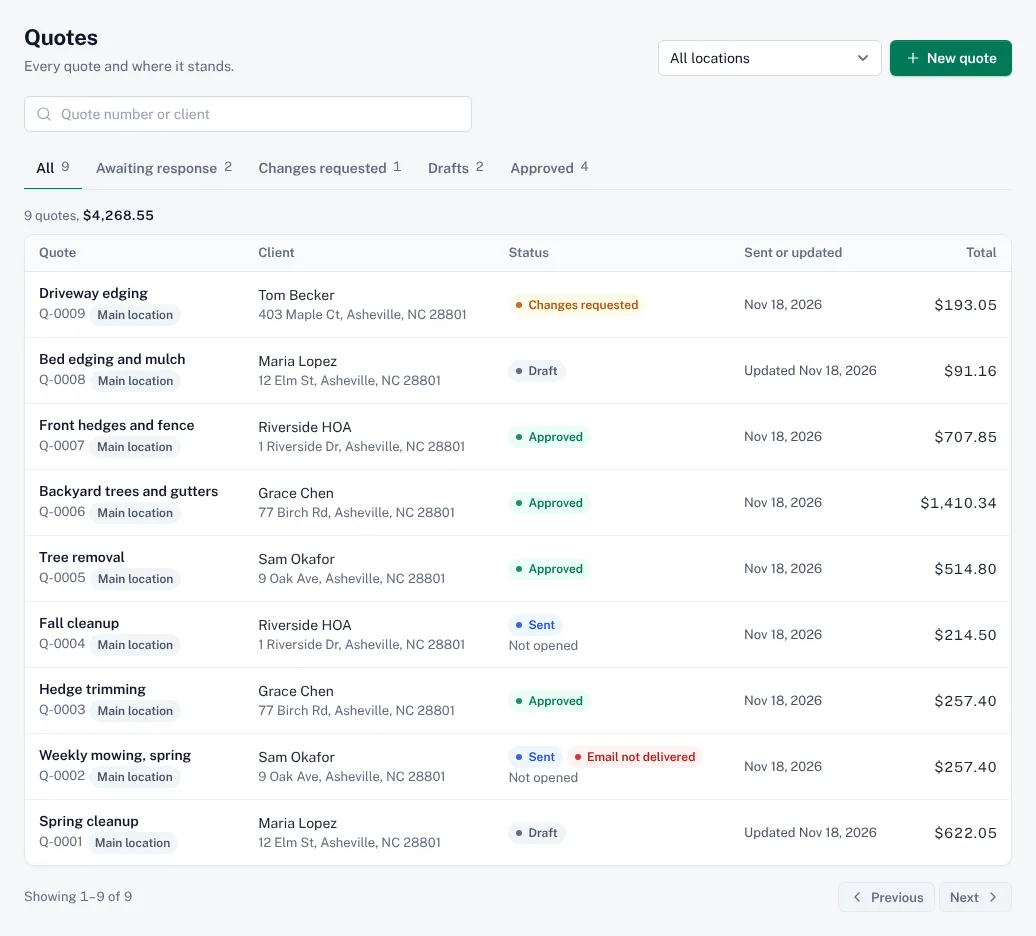
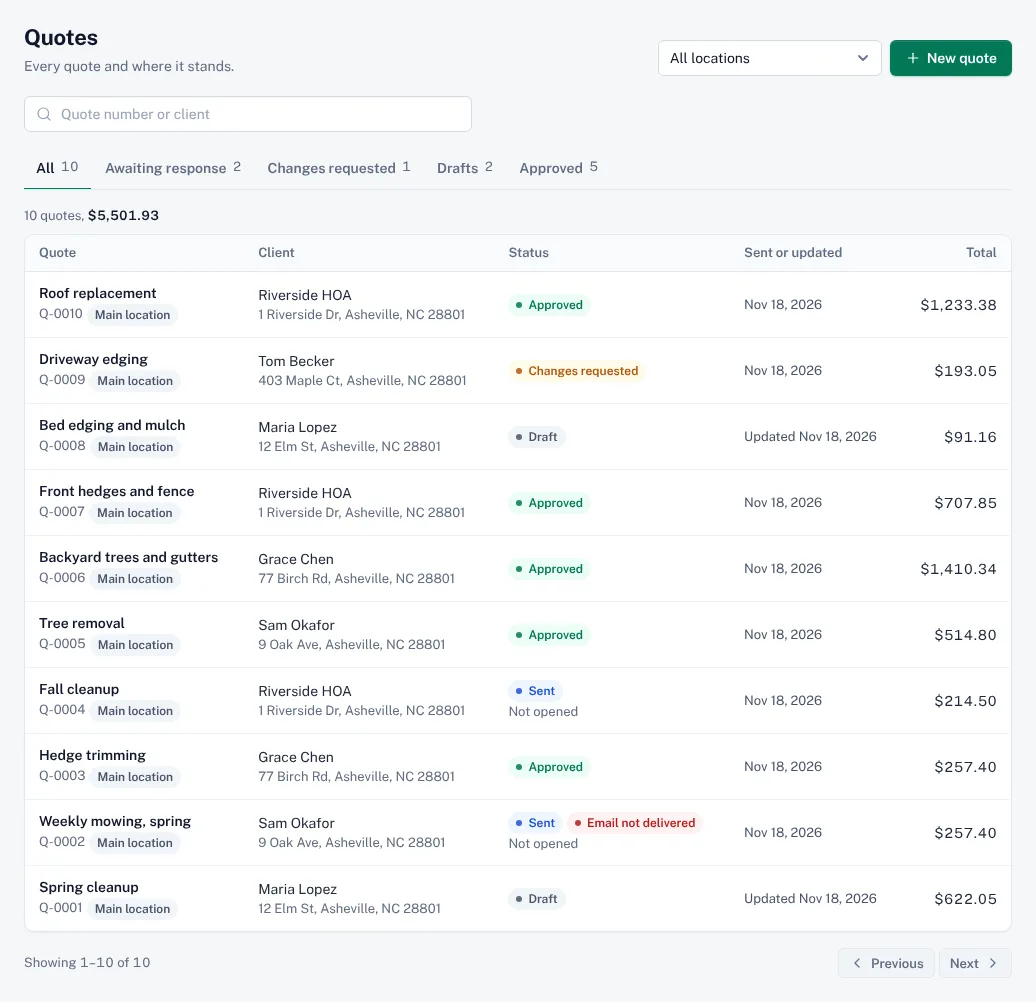
PAY-08 part 3: progress on the pages, credits and shares on invoices, seeds and the spec (#427)
* PAY-08 part 3: progress buttons, credits and shares on invoices, progress on the quote and job pages, seeds and the spec

Claude-Session: https://claude.ai/code/session_01STSMyyw2JA3DZHFPa2E6RQ

* PAY-08 part 3: review fixes: "Credit from" with tax for clients, staff figures with tax, Void waits, export columns, spec

Owner, 2026-11-23: client documents (page, PDF, email) show "Credit from
INV-0004" with its tax; staff progress figures include tax; "Create progress
invoice" approved. Void is hidden on progress a later invoice credits, saying
why. Export adds kind, share and credits. Spec records the answers and fit notes.

Claude-Session: https://claude.ai/code/session_01STSMyyw2JA3DZHFPa2E6RQ

* PAY-08 part 3: credits shown after the discount, before tax; the owner's net-credit rule in the spec

Claude-Session: https://claude.ai/code/session_01STSMyyw2JA3DZHFPa2E6RQ

* PAY-08 part 3: client Credit from rows with mixed tax tested; the owner's cap answer in the spec

Claude-Session: https://claude.ai/code/session_01STSMyyw2JA3DZHFPa2E6RQ

* PAY-08 part 3: the spec notes progress keeps its work's tax rates

Claude-Session: https://claude.ai/code/session_01STSMyyw2JA3DZHFPa2E6RQ

* PAY-08 part 3: the demo's roof seed is made last and counted before this billing period, so the help screenshots stay current

Claude-Session: https://claude.ai/code/session_01STSMyyw2JA3DZHFPa2E6RQ
[…]

diff --git a/test/integration/admin/progress_billing_test.rb b/test/integration/admin/progress_billing_test.rb
@@ -70,4 +70,98 @@ class Admin::ProgressBillingTest < ActionDispatch::IntegrationTest
     their_quote = as_business(businesses(:two)) { Quote.create!(client: theirs.client, title: "Theirs") }
     assert_not_found_across_businesses { post admin_quote_invoices_path(their_quote, progress: 1) }
   end
+
+  test "the pages: progress buttons before the work is done; credits and the share on the invoice; progress, with tax" do
+    as_business(@business) { @quote.update_columns(discount_kind: "amount", discount_amount_cents: 100_00, tax_rates: [ { "name" => "State", "percent" => "10" } ]) }
+    get admin_quote_path(@quote)
+    assert_select "form[action=?] button#quote-progress-invoice", admin_quote_invoices_path(@quote, progress: 1), /Create progress invoice/
+    job = make
+    get admin_job_path(job)
+    assert_select "form[action=?] button#job-progress-invoice", admin_job_invoices_path(job, progress: 1)
+
+    early = as_business(@business) do
+      WorkBilling.bill_progress!(job, by: users(:one)).tap do |invoice|
+        assert_equal [ 900_00, 990_00 ], [ invoice.subtotal_cents, invoice.total_cents ], "at most what's left after the discount's share (owner, 2026-11-23)"
+        invoice.mark_sent!(by: users(:one), channel: "link")
+      end
+    end
+    get admin_invoice_path(early)
+    assert_select "#invoice-progress", /Progress invoice/
+    as_business(@business) { job.reload.complete!(by: users(:one)) }
+    get admin_job_path(job)
+    assert_select "#job-progress-invoice", count: 0, text: nil
+    assert_select "#job-progress", /Progress billed\s*\$990\.00/
+
+    post admin_job_invoices_path(job)
+    final = as_business(@business) { Invoice.last }
+    get edit_admin_invoice_path(final)
+    assert_select "#quote_totals .quote-totals-credit", /Billed earlier on #{early.number}\s*−\$900\.00/
+    assert_select "#quote_totals", /Share of the quote's discount\s*−\$100\.00/
+    assert_equal 0, final.total_cents
+    as_business(@business) { final.reload.mark_sent!(by: users(:one), channel: "link") }
+
+    get admin_quote_path(@quote)
+    assert_select "#quote-progress", /Credited on final invoices\s*\$990\.00/
+    assert_select "#quote-progress", text: /Over-billed/, count: 0
+    assert_select "#quote-progress-invoice", count: 0
+    get admin_invoice_path(early)
+    assert_select "#invoice-credited", /credited on #{final.number}/
+    assert_select "#invoice-void", count: 0
+
+    get client_link_path(as_business(@business) { final.client_link! }.token)
+    assert_select ".quote-doc-totals", /Credit from #{early.number}\s*−\$990\.00/, "with the tax the client paid (owner, 2026-11-23)"
+    assert_select ".quote-doc-totals", text: /Billed earlier/, count: 0
+    get client_link_path(as_business(@business) { early.client_link! }.token)
+    assert_select ".quote-doc-kicker", "Progress invoice #{early.number}"
+  end
+
+  test "the client's Credit from rows are what each progress invoice charged, with taxed and untaxed work mixed" do
+    quote = as_business(@business) do
+      @quote.update_columns(tax_rates: [ { "name" => "State", "percent" => "10" } ])
+      @quote.line_items.build(key: "g", name: "Gutters", quantity: 1, taxable: false, position: 1).tap { _1.unit_price = "500" }.save!
+      @quote.reload
+    end
+    job = as_business(@business) { Job.from_quote!(quote, picks: quote.line_items.to_h { [ _1.id, "1" ] }) }
+    numbers = %w[Roof Gutters].map do |name|
+      as_business(@business) do
+        invoice = WorkBilling.bill_progress!(job.reload, by: users(:one))
+        invoice.line_items.each { _1.name == name ? _1.assign_attributes(quantity: 1, unit_price: "500") : _1.mark_for_destruction }
+        invoice.save!
+        invoice.mark_sent!(by: users(:one), channel: "link")
+        invoice.number
+      end
+    end
+    as_business(@business) { job.reload.complete!(by: users(:one)) }
+    post admin_job_invoices_path(job)
+    final = as_business(@business) { Invoice.last.tap { _1.mark_sent!(by: users(:one), channel: "link") } }
+    get client_link_path(as_business(@business) { final.client_link! }.token)
+    assert_select ".quote-doc-totals", /Credit from #{numbers.first}\s*−\$550\.00/, "the roof's $500 with its 10%"
+    assert_select ".quote-doc-totals", /Credit from #{numbers.last}\s*−\$500\.00/, "the gutters, untaxed"
+  end
+
+  test "the quote and job pages don't query once per progress invoice" do
+    job = make
+    count = lambda do |path|
+      get path # warms up
+      queries = 0
+      counter = ->(*, payload) { queries += 1 unless payload[:name].in?(%w[SCHEMA TRANSACTION]) }
+      ActiveSupport::Notifications.subscribed(counter, "sql.active_record") { get path }
+      assert_response :success
+      queries
+    end
+    bill = lambda do
+      as_business(@business) do
+        invoice = WorkBilling.bill_progress!(job.reload, by: users(:one))
+        invoice.line_items.sole.update!(unit_price: "10")
+        invoice.reload.save!
+        invoice.mark_sent!(by: users(:one), channel: "link")
+      end
+    end
+    2.times { bill.() }
+    few = [ admin_quote_path(@quote), admin_job_path(job) ].map { count.(_1) }
+    10.times { bill.() }
+    many = [ admin_quote_path(@quote), admin_job_path(job) ].map { count.(_1) }
+    puts "queries #{few} -> #{many}" if ENV["SHOW_QUERIES"]
+    few.zip(many).each { |before, after| assert_operator after - before, :<=, 2, "#{before} queries with 2 progress invoices, #{after} with 12" }
+  end
 end

diff --git a/app/models/data_export.rb b/app/models/data_export.rb
@@ -214,7 +214,7 @@ class DataExport < ApplicationRecord
       column("Cancelled", &:cancelled_at)
       column("Cancel reason", &:cancel_reason)
     end,
-    Table.new("invoices", "Invoices", "One row per invoice, with totals, taxes and what's been paid.", scope: -> { Invoice.includes(:client, :property, :job, :quote, :jobs, :line_items, :location) }) do
+    Table.new("invoices", "Invoices", "One row per invoice, with totals, taxes and what's been paid.", scope: -> { Invoice.includes(:client, :property, :job, :quote, :jobs, :line_items, :location, :credits) }) do
       column("Invoice number", &:number)
       column("Client ID") { _1.client.uid }
       column("Client") { _1.client.display_name }
@@ -243,6 +243,12 @@ class DataExport < ApplicationRecord
       # PAY-06: the quote it bills and every job (a quote's invoice can bill several).
       column("From quote", flag: :split_jobs) { _1.quote&.number }
       column("Jobs", flag: :split_jobs) { _1.jobs.map(&:number).join(", ") }
+      # PAY-08: progress or work, its share of the quote's fixed discount, and what it credits
+      # before tax for progress billed earlier (and on which invoices).
+      column("Kind", flag: :split_jobs, &:kind)
+      column("Quote discount share", number: true, flag: :split_jobs) { money.(_1.quote_discount_share_cents, _1.currency) }
+      column("Credits before tax", number: true, flag: :split_jobs) { money.(_1.credits.sum(&:amount_cents), _1.currency) }
+      column("Credits from", flag: :split_jobs) { _1.credits.map { |credit| credit.source_invoice.number }.uniq.join(", ") }
     end,
     Table.new("invoice_lines", "Invoice line items", "Each line on each invoice.", scope: -> { InvoiceLineItem.includes(:invoice, job_line_item: :job, quote_line_item: :quote) },
               cursor: %i[invoice_id position id]) do
@@ -254,6 +260,7 @@ class DataExport < ApplicationRecord
       column("Quote number", flag: :split_jobs) { _1.quote_line_item&.quote&.number }
       column("Quote line position", number: true, flag: :split_jobs) { _1.quote_line_item&.position }
       column("Final bill", flag: :split_jobs, &:final)
+      column("Discount share", number: true, flag: :split_jobs) { money.(_1.discount_share_cents, _1.invoice.currency) } # PAY-08
     end,
     Table.new("payments", "Payments", "Each payment recorded against an invoice, by date received.", scope: -> { Payment.includes(:invoice, :recorded_by) }, cursor: %i[received_on id]) do
       column("Payment ID", &:uid)

diff --git a/db/seeds/development.rb b/db/seeds/development.rb
@@ -700,3 +700,37 @@ Tenancy.with_business(business) do
                            message: "Could you add the path to the back gate as well?")
   end
 end
+
+# PAY-08: "Roof replacement" with a $100 fixed discount: half the roof billed up front as progress
+# (sent), then the job completed and its final invoice a draft that credits the $500 before tax
+# and takes its share of the discount. The gutters are still to do. Made last, and its send
+# counted before this billing period, so the rest of the demo (numbers, the quote allowance) and
+# the help screenshots taken from it stay as they were.
+Tenancy.with_business(business) do
+  owner = User.find_by!(email: "owner@example.com")
+  client = Client.order(:id).fourth || Client.order(:id).first
+  if client && !Quote.exists?(title: "Roof replacement")
+    split = Feature.overrides.key?("split_jobs")
+    Feature.overrides["split_jobs"] = true unless split
+    quote = Quote.start(client:, created_by: owner)
+    quote.title = "Roof replacement"
+    quote.set_discount("amount", "100")
+    quote.sync_line_items([ { "key" => "seed-0", "name" => "Roof replacement", "quantity" => "1", "unit_price" => "1000", "taxable" => "1" },
+                            { "key" => "seed-1", "name" => "Gutter guards", "quantity" => "1", "unit_price" => "250", "taxable" => "1" } ])
+    quote.save!
+    quote.mark_sent!(by: owner, channel: "link")
+    UsageEvent.where(subject: quote).update_all(occurred_at: 3.months.ago)
+    auto = business.auto_create_jobs
+    business.update_columns(auto_create_jobs: false)
+    quote.record_response!(:approve, by: owner, signer_name: client.display_name, message: "Agreed by phone")
+    business.update_columns(auto_create_jobs: auto)
+    job = Job.from_quote!(quote.reload, by: owner, picks: { quote.line_items.first.id => "1" })
+    early = WorkBilling.bill_progress!(job, by: owner)
+    early.line_items.sole.update!(unit_price: "500")
+    early.reload.save!
+    early.mark_sent!(by: owner, channel: "link")
+    job.reload.complete!(by: owner)
+    Invoice.from_job!(job.reload, by: owner)
+    Feature.overrides.delete("split_jobs") unless split
+  end
+end

diff --git a/app/helpers/client_events_helper.rb b/app/helpers/client_events_helper.rb
@@ -27,7 +27,7 @@ module ClientEventsHelper
     when "visit_reopened" then [ "rotate-ccw", "Visit reopened#{" for #{subject.job.number}" if subject}", subject && admin_job_path(subject.job) ]
     when "visit_cancelled" then [ "x-circle", "Visit on #{data["when"]} cancelled#{" (#{subject.job.number})" if subject}", subject && admin_job_path(subject.job) ]
     when "invoice_sent"
-      [ "send", "Invoice #{subject&.number} sent #{CHANNELS[data["channel"]]} #{revision_note(data)}".squish, subject && staff_invoice_path(subject) ]
+      [ "send", "#{subject&.kind_label || "Invoice"} #{subject&.number} sent #{CHANNELS[data["channel"]]} #{revision_note(data)}".squish, subject && staff_invoice_path(subject) ]
     when "invoice_paid" then [ "check-circle", "Invoice #{subject&.number} paid in full", subject && staff_invoice_path(subject) ]
     when "invoice_unpaid" then [ "rotate-ccw", "Invoice #{subject&.number} no longer paid in full", subject && staff_invoice_path(subject) ]
     when "payment_recorded"
@@ -41,7 +41,7 @@ module ClientEventsHelper
       related = subject&.related
       about, path = case related
       when Quote then [ "Quote #{related.number}", staff_quote_path(related) ]
-      when Invoice then [ "Invoice #{related.number}", staff_invoice_path(related) ]
+      when Invoice then [ "#{related.kind_label} #{related.number}", staff_invoice_path(related) ]
       else [ ("“#{subject.subject}”" if subject&.subject), nil ]
       end
       [ "alert-triangle", subject ? "#{about || "An email"} to #{subject.to}: #{subject.problem_reason}" : "An email wasn't delivered", path ]

diff --git a/app/controllers/admin/invoices_controller.rb b/app/controllers/admin/invoices_controller.rb
@@ -58,7 +58,7 @@ class Admin::InvoicesController < Admin::BaseController
     respond_to do |format|
       format.turbo_stream { render :update, status: (saved ? :ok : :unprocessable_content) }
       format.html do
-        next redirect_to(edit_admin_invoice_path(@invoice), notice: "Invoice #{@invoice.number} saved.") if saved
+        next redirect_to(edit_admin_invoice_path(@invoice), notice: "#{@invoice.kind_label} #{@invoice.number} saved.") if saved
 
         render :edit, status: :unprocessable_content
       end
@@ -72,7 +72,7 @@ class Admin::InvoicesController < Admin::BaseController
 
   def revise
     @invoice.revise!(by: current_user)
-    redirect_to edit_admin_invoice_path(@invoice), notice: "Invoice #{@invoice.number} reopened as revision #{@invoice.revision}."
+    redirect_to edit_admin_invoice_path(@invoice), notice: "#{@invoice.kind_label} #{@invoice.number} reopened as revision #{@invoice.revision}."
   rescue ArgumentError => error
     redirect_to admin_invoice_path(@invoice), alert: error.message
   end
@@ -87,7 +87,7 @@ class Admin::InvoicesController < Admin::BaseController
 
   def void
     @invoice.void!(reason: params[:reason], by: current_user)
-    redirect_to admin_invoice_path(@invoice), notice: "Invoice #{@invoice.number} voided."
+    redirect_to admin_invoice_path(@invoice), notice: "#{@invoice.kind_label} #{@invoice.number} voided."
   rescue ArgumentError => error
     redirect_to admin_invoice_path(@invoice), alert: error.message
   end

diff --git a/test/integration/admin/data_exports_test.rb b/test/integration/admin/data_exports_test.rb
@@ -139,10 +139,10 @@ class Admin::DataExportsTest < ActionDispatch::IntegrationTest
       Invoice.from_quote!(quote.reload).tap { assert_equal 2, jobs.size }
     end
     lines = download("invoice_lines").select { _1["Invoice number"] == invoice.number }
-    assert_equal [ "Job number", "Job line position", "Quote number", "Quote line position", "Final bill" ], lines.first.headers.last(5)
+    assert_equal [ "Job number", "Job line position", "Quote number", "Quote line position", "Final bill", "Discount share" ], lines.first.headers.last(6)
     numbers, quote = as_business(@business) { [ invoice.jobs.map(&:number), invoice.quote.number ] }
-    assert_equal numbers.map { [ _1, "0", quote, "0", "yes" ] }, lines.map { _1.fields.last(5) }
+    assert_equal numbers.map { [ _1, "0", quote, "0", "yes", "0.00" ] }, lines.map { _1.fields.last(6) }
     row = download("invoices").find { _1["Invoice number"] == invoice.number }
-    assert_equal [ quote, numbers.join(", ") ], row.fields.last(2)
+    assert_equal [ quote, numbers.join(", "), "work", "0.00", "0.00", "" ], row.fields.last(6) # PAY-08: kind, share, credits
   end
 end

diff --git a/test/models/progress_billing_test.rb b/test/models/progress_billing_test.rb
@@ -617,6 +617,14 @@ class ProgressBillingTest < ActiveSupport::TestCase
     end
     assert_equal sent_with, [ final.reload.quote_discount_share_cents, credits(final), final.total_cents ]
   end
+
+  test "the quote's over-billed figure is what the client was charged, with tax (owner, 2026-11-23)" do
+    approved_quote([ [ "t", "Tree removal", 10, 100 ] ], tax: "10")
+    send!(lower(progress(@quote), "Tree removal" => 800))
+    send!(bill_job(complete(make(t: 10), "Tree removal" => 6)))
+    summary = as_business(@business) { BillingLedger.new(quote: @quote.reload).summary }
+    assert_equal({ billed: 880_00, credited: 660_00, over_billed: 220_00 }, summary)
+  end
 end
 
 # Two drafts that would both credit the same over-billing, sent at once: the quote's lock queues

diff --git a/app/models/concerns/billing_credits.rb b/app/models/concerns/billing_credits.rb
@@ -34,6 +34,9 @@ module BillingCredits
 
   def progress? = kind == "progress"
 
+  # What it's called wherever it's named: "Progress invoice INV-0004", as on the client's page.
+  def kind_label = progress? ? "Progress invoice" : "Invoice"
+
   # Prices the lines with the shares, and the pre-tax credits as negative lines (credits: false is
   # the total before credits, which the $0 rule looks at).
   def totals(credits: true)

diff --git a/app/mailers/invoice_mailer.rb b/app/mailers/invoice_mailer.rb
@@ -17,5 +17,5 @@ class InvoiceMailer < ClientMailer
     client_mail subject:, cc: params[:cc].presence
   end
 
-  def self.default_subject(invoice) = "Invoice #{invoice.number} from #{invoice.business.name}#{": #{invoice.title}" if invoice.title}"
+  def self.default_subject(invoice) = "#{invoice.kind_label} #{invoice.number} from #{invoice.business.name}#{": #{invoice.title}" if invoice.title}"
 end

diff --git a/docs/specs/payments/PAY-08-progress-billing-discount-shares.md b/docs/specs/payments/PAY-08-progress-billing-discount-shares.md
@@ -23,38 +23,41 @@ invoices in proportion to the work each bills, so a part-done quote never carrie
 
 ## Acceptance criteria
 
-- [ ] "Create another invoice" on a job or a quote before the work is done makes a progress
+- [x] "Create another invoice" on a job or a quote before the work is done makes a progress
       invoice (kind progress) of its unbilled lines, which staff can lower. Its lines are
       progress amounts, not final bills (PAY-06). On autosave and on send, under PAY-06's lock, a
-      line's progress can't pass what's left of it.
-- [ ] Progress on a job line is credited on that line's final bill; progress on a quote line, or
+      line's progress can't pass what's left of it. *"Create progress invoice"; never charges a
+      line more than the final would after its discount (owner, 2026-11-23).*
+- [x] Progress on a job line is credited on that line's final bill; progress on a quote line, or
       on the line of a job later cancelled, is credited on its quote line's final bills. Each
       credit = min(progress on the line not yet credited, this bill's amount for that line), the
       job line's own first. It's a negative line before tax, at the credited line's tax rates
-      ("Billed earlier on INV-0003"), so tax is charged once.
-- [ ] **Over-billed** = progress not yet credited on lines with nothing left to bill (no to-do
+      ("Billed earlier on INV-0003"), so tax is charged once. Clients see "Credit from INV-0003"
+      with its tax (owner, 2026-11-23). *No tax rate's base goes below zero; the rest carries.*
+- [x] **Over-billed** = progress not yet credited on lines with nothing left to bill (no to-do
       quantity, and every claim billed, cancelled or Not going ahead). The quote shows
       "Over-billed $X" and the next invoice for the quote credits it the same way.
-- [ ] Credit order on one invoice: progress, then over-billed (both before tax), then deposits
+- [x] Credit order on one invoice: progress, then over-billed (both before tax), then deposits
       and take-backs (after tax, PAY-07). Total due = total − after-tax credits.
-- [ ] Fixed quote discount D: S = the quote's value after line discounts, with completed or
+- [x] Fixed quote discount D: S = the quote's value after line discounts, with completed or
       billed quantity at the price it was kept at and the rest at the current price (QTE-10); W
       = quote work (lines added on site aren't) on final bills not void, this one included. target =
       min(D, round(D × W ÷ S)); this invoice's share = target − shares on other such invoices,
       from zero up to its quote-work subtotal; what the cap holds back falls into the next target.
-- [ ] A line's fixed discount d over quantity q is shared the same way: target = min(d, round(d ×
+- [x] A line's fixed discount d over quantity q is shared the same way: target = min(d, round(d ×
       quantity billed ÷ q)), less what earlier bills of that line took.
-- [ ] Shares are kept apart from any discount staff type on a draft, so an edit never skews later
+- [x] Shares are kept apart from any discount staff type on a draft, so an edit never skews later
       targets. After a void, drafts recompute shares and credits; sent invoices don't change.
-- [ ] A percent discount applies to each invoice as now. Jobs from before JOB-09 that carry a
+- [x] A percent discount applies to each invoice as now. Jobs from before JOB-09 that carry a
       fixed discount count it as their share. Recurring quotes don't share (JOB-10). Dropped work
-      doesn't keep its part: the discount follows the work billed.
-- [ ] The $0 rule (PAY-01) looks at the total before credits; a sent invoice with nothing due is
+      doesn't keep its part: the discount follows the work billed. *No legacy rule (owner,
+      2026-11-23): an invoice from quote work copies only a percent discount.*
+- [x] The $0 rule (PAY-01) looks at the total before credits; a sent invoice with nothing due is
       Paid at once. NTF-04 "invoice the job" sends such an invoice as any other.
-- [ ] The quote page shows progress billed, credited and over-billed; the job page its own.
-- [ ] Tests: the five worked examples in #356, job and quote progress, a cancelled job's progress,
-      over-billing and its credit, credit order, tax charged once, both targets, the cap and
-      carry, a void, a staff discount edit, percent and legacy discounts, $0 due, roles, tenancy.
+- [x] The quote page shows progress billed, credited and over-billed; the job page its own.
+- [x] Tests: #356's worked examples 1–4 (5 is JOB-11's), job and quote progress, a cancelled
+      job's progress, over-billing and its credit, credit order, tax charged once, both targets,
+      the cap and carry, a void, a staff discount edit, percent discounts, $0 due, roles, tenancy.
 
 ## Out of scope
 
@@ -65,18 +68,33 @@ invoices in proportion to the work each bills, so a part-done quote never carrie
 - Progress billing stays: a job or quote can be billed in part before it's done (owner, 2026-11-22).
 - Each invoice takes its proportional share of a fixed quote discount ($50 off a $1,000 quote: a
   $400 invoice gets $20); a percent discount just applies (owner, 2026-11-22).
-- Dropped work doesn't keep its part of a fixed discount: it follows the work billed
-  (owner, 2026-11-22).
-- When progress billing passes the work done, the quote shows "Over-billed $X" and it's credited
-  on the next invoice. Refunds and credit notes are a later spec (owner, 2026-11-22).
+- Dropped work keeps no part of a fixed discount; over-billing shows on the quote and is
+  credited on the next invoice (owner, 2026-11-22).
 - The target, the cap and carry, "lines added on site aren't quote work" and "progress invoices
   get no share" (coordinator; follows the owner's model).
+- A progress invoice's discounts apply to the cash it collected: the final deducts only the net
+  it charged (an unpaid one still does, and stays owed). Progress never charges a line more than
+  the final would, after the quote's percent or fixed discount or a lone job's own. Clients see
+  "Credit from INV-0004" with tax; staff figures include tax (owner, 2026-11-23).
+- No legacy rule for pre-JOB-09 fixed discounts (owner, 2026-11-23). Credited progress is voided
+  only after the invoice crediting it (follows the owner's void-first rule, 2026-11-23).
+- Credits and shares count only from invoices that went out; a draft's are worked out again at
+  send; a sent invoice's stay (a revision can't go below them). A credit is capped by the bill's
+  line after its share; a staff percent applies to the subtotal before the share (implementation).
 
 ## Implementation notes
 
-- `invoices.kind` (work, progress; PAY-07 adds deposit and take-back) and
-  `invoices.quote_discount_share_cents` (the computed share; staff's own edit stays in the usual
-  discount fields). Progress rows are invoice lines with `final` false.
-- `invoice_credits` (invoice, kind: progress, over-billed, deposit or take-back; source invoice
-  and line; amount; sign), written under PAY-06's lock and recomputed on drafts at send. Pre-tax
-  kinds are also shown as negative lines so the PDF and tax add up; `total_due` uses the rest.
+- `invoices.kind` (work, progress), `.quote_discount_share_cents`, `invoice_line_items
+  .discount_share_cents`; `invoice_credits` (invoice, kind, source invoice and line, amount,
+  sign, tax rates, position). `BillingLedger` reads a quote's (or a lone job's) bills under
+  PAY-06's lock; `BillingCredits` works shares and credits out on each draft save, and
+  `WorkBilling.bill_progress!` makes progress invoices. Behind `split_jobs`.
+- A credit is what the progress invoice charged for the line (the sent version while revised),
+  net of its discounts, before tax; it comes off after the final's discount at its work's rates.
+- Over-billed counts a final bill once it went out. Fit: PAY-07 adds deposit and take_back to
+  both kind checks, keeps deposit credits in `work_out_credits`, and `nothing_due?` uses
+  `total_due`; JOB-10 skips `percent_only!` on recurring quotes; QTE-09 adds Not going ahead to
+  `nothing_left?`/`done?` (shortfalls stand in until then) with taxed figures; QTE-10's base
+  reads current quote lines.
+- `split_jobs` can go on once PAY-06 and PAY-08 merge (Operator → Flags). Dev seeds: "Roof
+  replacement" ($500 progress sent; the final draft credits it, $80 share).
